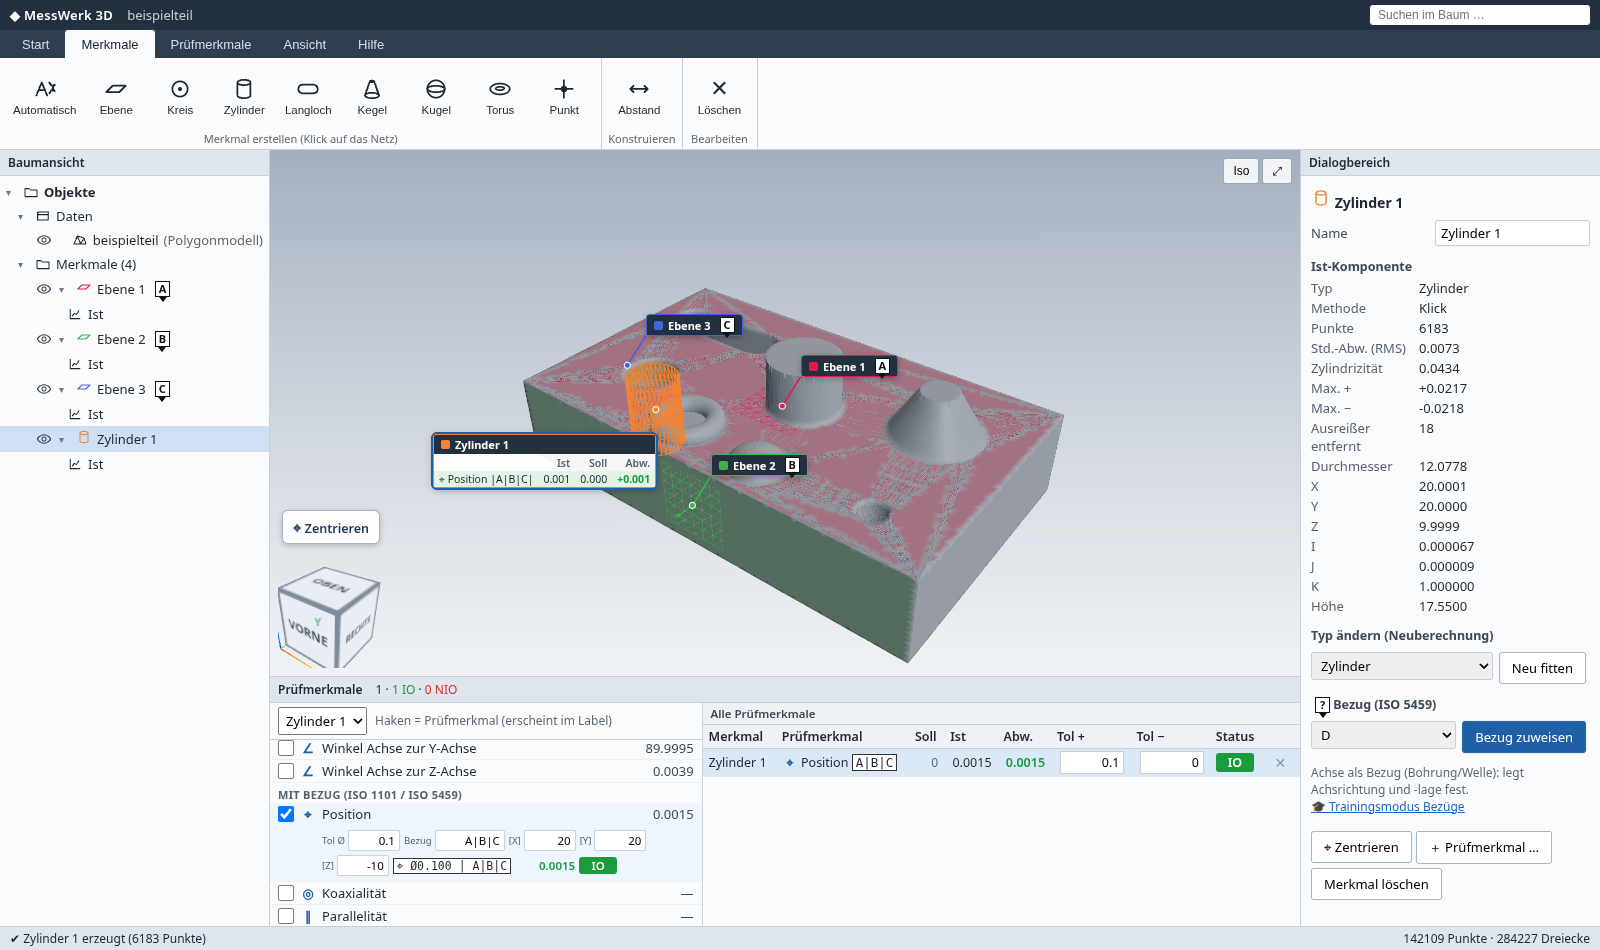
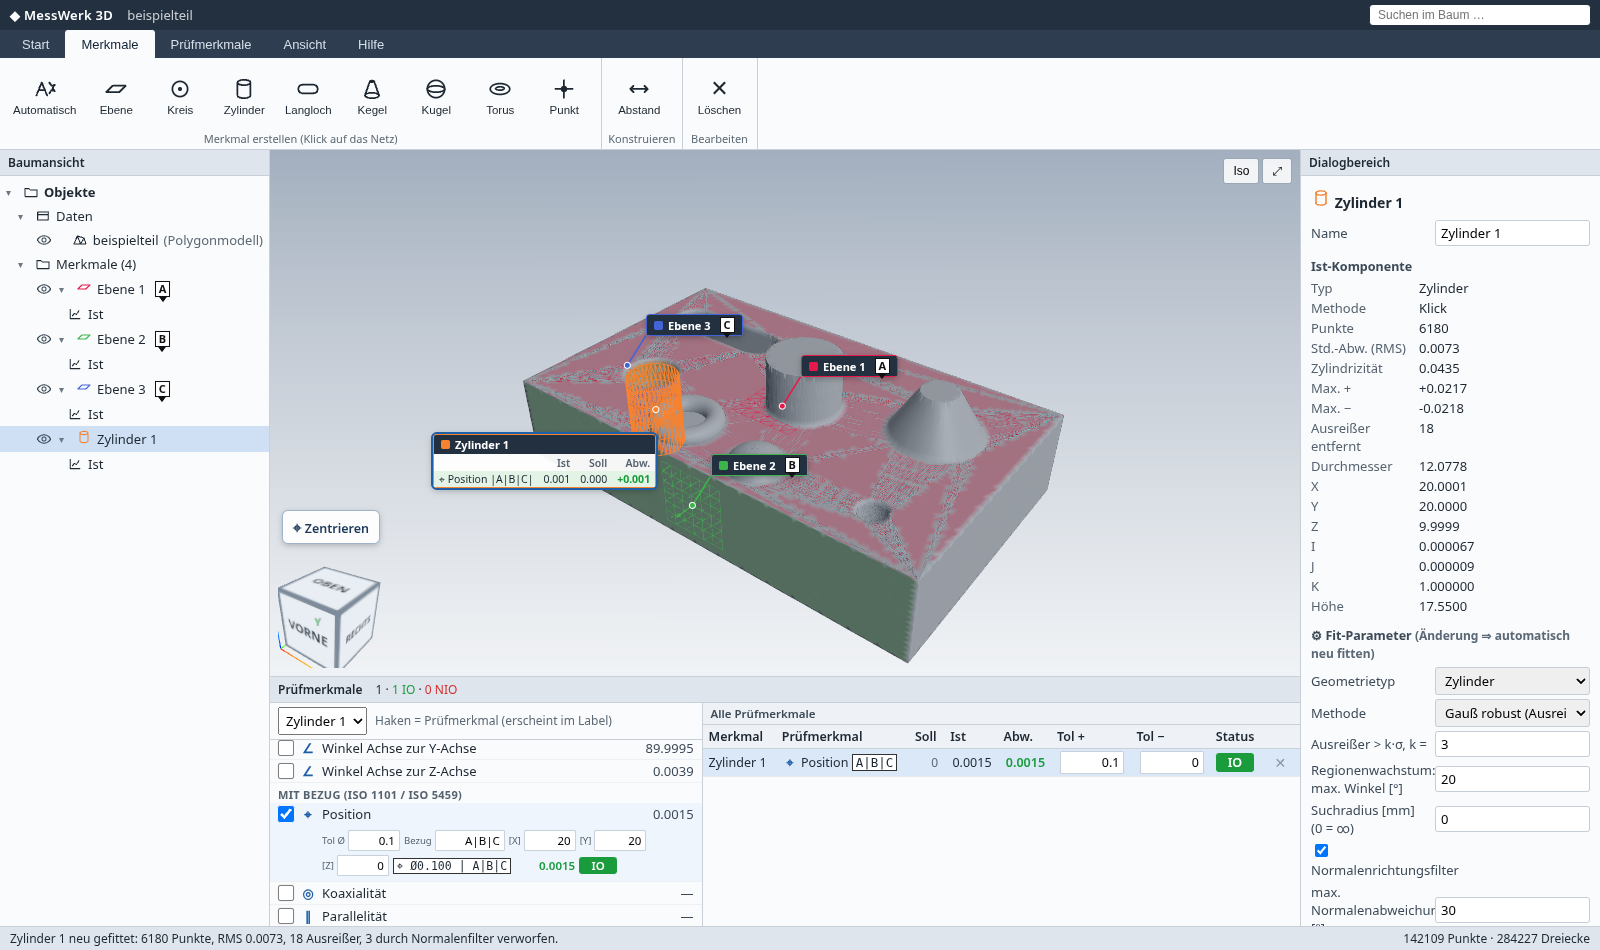
Eigenschaften: Fit-Parameter (Methode, Ausreißer, Regionenwachstum, Normalenfilter °/%, Hilfsebene, Typ) mit Auto-Neu-Fit; Trainingsschritt Normalenfilter; Position-Sollmaß für Achsen ohne Achslage; e2e props-check

Changed region(s): [[0.8125, 0.6411, 1.0, 0.9768], [0.0, 0.9768, 0.3438, 1.0]]

diff --git a/src/main.ts b/src/main.ts
@@ -8,7 +8,7 @@ import {
   defaultTolerance, evaluate, featureCSV, DEG, FORM_NAME, AuxPlane, controlCatalog,
 } from './core/features';
 import { Report, buildReport, reportCSV, reportHTML, reportTablesHTML } from './core/report';
-import { DATUM_COUNT, DATUM_LETTERS, buildDRF, datumKind, isDatumControl, toLocal } from './core/datum';
+import { DATUM_COUNT, DATUM_LETTERS, buildDRF, datumKind, dirLocal, isDatumControl, toLocal } from './core/datum';
 import { datumText } from './core/features';
 import { idbDel, idbGet, idbSet, packIndices, readProject, unpackIndex, writeProject } from './project';
 import { Tour, TourStep } from './training';
@@ -19,7 +19,9 @@ import { ICON } from './icons';
 type FitMode = { kind: 'fit'; type: GeomType | 'auto'; method: 'Klick' | 'Pinsel' };
 type DistMode = { kind: 'dist'; a: number | null; b: number | null; slot: 0 | 1 };
 type Mode = FitMode | DistMode | null;
-interface FeatureView extends Feature { color: number; indices: Uint32Array; candidates?: { type: string; rms: number }[]; auxIndices?: Uint32Array; }
+interface FitParamsUI { k: number; nf: { on: boolean; angleDeg: number; maxPct: number }; maxAngleDeg: number; radius: number; aux: 'auto' | 'none' | number; }
+interface FeatureView extends Feature { color: number; indices: Uint32Array; candidates?: { type: string; rms: number }[]; auxIndices?: Uint32Array;
+  src?: Uint32Array; hit?: Hit; fp?: FitParamsUI; }
 interface PreviewAux { plane: FitResult; indices: Uint32Array; source: string; refId?: number; }
 interface Preview { fit: FitResult; indices: Uint32Array; candidates: { type: string; rms: number }[]; method: 'Klick' | 'Pinsel' | 'Konstruiert'; refs?: number[];
   aux?: PreviewAux; hit?: Hit; }
@@ -52,7 +54,7 @@ const state = {
   nextId: 1, nextCtrl: 1, typeCount: {} as Record<string, number>,
   addFeat: null as number | null,
 };
-(window as any).__app = { state, viewer, engine };
+(window as any).__app = { state, viewer, engine, refitFeature: (...a: any[]) => (refitFeature as any)(...a) };
 
 const featMap = () => new Map<number, Feature>(state.features.map((f) => [f.id, f]));
 // Punkte eines Merkmals (für Richtungs-/Lauftoleranzen mit Bezug) aus dem Netz, max. 6000, zwischengespeichert
@@ -356,6 +358,7 @@ function commitPreview() {
   const f: FeatureView = {
     id: state.nextId++, name: `${t} ${n}`, type: t, measured: p.fit, pointCount: p.indices.length,
     method: p.method, color: PALETTE[(state.nextId - 2) % PALETTE.length], indices: p.indices, candidates: p.candidates, refs: p.refs,
+    src: p.indices, hit: p.hit, fp: defaultFp(),
   };
   if (p.aux) {
     f.aux = { plane: p.aux.plane, pointCount: p.aux.indices.length, source: p.aux.source, refId: p.aux.refId } as AuxPlane;
@@ -369,6 +372,36 @@ function commitPreview() {
   const node = document.querySelector<HTMLElement>(`#tree [data-fid="${f.id}"]`);
   node?.classList.add('flash'); node?.scrollIntoView({ block: 'nearest' });
   toast(`✔ ${f.name} erzeugt (${p.method === 'Konstruiert' ? 'Abstand ' + fmt(p.fit.distance, 3) + ' mm' : p.indices.length + ' Punkte'})`);
+}
+const defaultFp = (): FitParamsUI => ({ k: 3, nf: { on: false, angleDeg: 30, maxPct: 10 }, maxAngleDeg: state.opts.maxAngleDeg, radius: state.opts.radius, aux: state.opts.aux });
+/** Merkmal mit seinen Fit-Parametern neu berechnen (Extraktion + Fit) und alles Abhängige aktualisieren. */
+async function refitFeature(f: FeatureView, type: GeomType = f.type) {
+  if (f.type === 'Abstand') return;
+  const fp = (f.fp ??= defaultFp());
+  try {
+    let idx = f.src ?? f.indices, auxR: any = null;
+    const inPlane = (type === 'Kreis' || type === 'Langloch') && fp.aux !== 'none';
+    if (f.hit && f.method === 'Klick') {
+      if (inPlane) {
+        const ref = typeof fp.aux === 'number' ? state.features.find((g) => g.id === fp.aux) : undefined;
+        auxR = await busy(engine.call<any>({ op: 'aux', tri: f.hit.tri, point: f.hit.point, maxAngleDeg: fp.maxAngleDeg, type, plane: ref?.measured }));
+        auxR.source = ref ? ref.name : 'automatisch (angrenzende Fläche)'; auxR.refId = ref?.id;
+      } else idx = (await busy(engine.call<any>({ op: 'grow', tri: f.hit.tri, point: f.hit.point, maxAngleDeg: fp.maxAngleDeg, radius: fp.radius, type }))).indices;
+    }
+    if (auxR) {
+      f.measured = auxR.fit; f.indices = auxR.indices; f.src = auxR.indices;
+      f.aux = { plane: auxR.aux.plane, pointCount: auxR.aux.indices.length, source: auxR.source, refId: auxR.refId } as AuxPlane; f.auxIndices = auxR.aux.indices;
+    } else {
+      const r = await busy(engine.call<any>({ op: 'fit', indices: idx, type, params: { k: fp.k, nf: fp.nf.on ? fp.nf : null } }));
+      f.measured = r.fit; f.indices = r.indices; f.src = idx; f.aux = undefined; f.auxIndices = undefined;
+    }
+    f.type = f.measured!.type; f.pointCount = f.indices.length; ptsCache.delete(f.id);
+    state.controls = state.controls.filter((c) => !(c.featureIds[0] === f.id && !availableControls(f.type).includes(c.kind)));
+    recomputeDistances();
+    const m = f.measured!;
+    status(`${f.name} neu gefittet: ${f.pointCount} Punkte, RMS ${fmt(m.rms, 4)}${m.outliers ? `, ${m.outliers} Ausreißer` : ''}${m.nfRemoved ? `, ${m.nfRemoved} durch Normalenfilter verworfen` : ''}.`);
+  } catch (e: any) { status('Fit fehlgeschlagen: ' + e.message); toast('Fit fehlgeschlagen: ' + e.message); }
+  renderAll(); scheduleAutosave();
 }
 function discardPreview() { state.preview = null; clearBrush(); status('Vorschau verworfen.'); renderAll(); }
 
@@ -447,7 +480,12 @@ function defaultBasic(kind: ControlKind, f: FeatureView, datumIds: number[]): nu
   }
   if (kind === 'Position' || kind === 'Profil (Bezug)') {
     const F = buildDRF(datumIds.map((i) => fm.get(i)!).filter(Boolean));
-    return toLocal(F, f.measured!.center).map((v) => Math.round(v * 10) / 10);
+    const loc = toLocal(F, f.measured!.center);
+    // Achse: Lage entlang der Achse ist für die Position bedeutungslos → Soll-Koordinate 0 (in der Bezugsebene)
+    if (datumKind(f.type) === 'axis' && f.type !== 'Torus') {
+      const a = dirLocal(F, f.measured!.normal); const ax = [0, 1, 2].reduce((q, k) => (Math.abs(a[k]) > Math.abs(a[q]) ? k : q), 0); loc[ax] = 0;
+    }
+    return loc.map((v) => Math.round(v * 10) / 10 + 0);
   }
   return undefined;
 }
@@ -744,7 +782,7 @@ function renderDialog() {
     <h4>Ist-Komponente</h4>${kv([['Typ', f.type], ['Methode', f.method], ...fitRows(f.measured!, f.pointCount)])}
     ${f.aux ? `<h4>${ICON.aux} Hilfsebene</h4>${kv([['Quelle', f.aux.source], ['Punkte', f.aux.refId ? '—' : String(f.aux.pointCount)], ['RMS', fmt(f.aux.plane.rms)], ['Ebenheit', fmt(f.aux.plane.form)],
       ['Punkt', f.aux.plane.center.map((v) => v.toFixed(3)).join(' ')], ['Normale', f.aux.plane.normal.map((v) => v.toFixed(5)).join(' ')]])}` : ''}
-    ${f.type !== 'Abstand' && !f.aux ? `<h4>Typ ändern (Neuberechnung)</h4><div class="row"><select id="d-retype">${FIT_TYPES.map((t) => `<option ${t === f.type ? 'selected' : ''}>${t}</option>`).join('')}</select><button class="btn" id="d-refit">Neu fitten</button></div>` : ''}
+    ${f.type !== 'Abstand' ? fitParamsHTML(f) : ''}
     ${datumKind(f.type) ? `<h4><span class="dflag sm">${f.datum ?? '?'}</span> Bezug (ISO 5459)</h4>
       <div class="row" id="dt-box"><select id="dt-letter">${DATUM_LETTERS.slice(0, 10).map((l) => { const o = state.features.find((g) => g.datum === l && g.id !== f.id);
         return `<option value="${l}" ${(f.datum ?? nextFreeLetter()) === l ? 'selected' : ''}>${l}${o ? ` (tauschen mit ${o.name})` : ''}</option>`; }).join('')}</select>
@@ -760,15 +798,37 @@ function renderDialog() {
   ($('#d-name') as HTMLInputElement).onchange = (e) => { f.name = (e.target as HTMLInputElement).value; renderAll(); };
   ($('#d-del') as HTMLButtonElement).onclick = () => { state.selControl = null; deleteSelected(); };
   ($('#d-addctrl') as HTMLButtonElement).onclick = () => { state.addFeat = f.id; state.ctab = 'katalog'; renderTable(); togglePanel('table', true); };
-  d.querySelector('#d-refit')?.addEventListener('click', async () => {
-    const t = ($('#d-retype') as HTMLSelectElement).value as GeomType;
-    try {
-      const r = await busy(engine.call<any>({ op: 'fit', indices: f.indices, type: t }));
-      f.type = r.fit.type; f.measured = r.fit; ptsCache.delete(f.id);
-      state.controls = state.controls.filter((c) => !(c.featureIds[0] === f.id && !availableControls(f.type).includes(c.kind)));
-      recomputeDistances(); renderAll();
-    } catch (e: any) { status('Fit fehlgeschlagen: ' + e.message); }
-  });
+  bindFitParams(d, f);
+}
+
+function fitParamsHTML(f: FeatureView) {
+  const fp = (f.fp ??= defaultFp()); const grow = !!f.hit && f.method === 'Klick';
+  const planes = state.features.filter((g) => g.type === 'Ebene' && g.id !== f.id);
+  const m = f.measured!;
+  return `<h4>⚙ Fit-Parameter <span class="note">(Änderung ⇒ automatisch neu fitten)</span></h4><div id="fp-box">
+    <div class="row"><label>Geometrietyp</label><select id="d-retype">${FIT_TYPES.map((t) => `<option ${t === f.type ? 'selected' : ''}>${t}</option>`).join('')}</select></div>
+    <div class="row"><label>Methode</label><select id="fp-method"><option value="lsq" ${fp.k ? '' : 'selected'}>Gauß (kleinste Quadrate)</option><option value="rob" ${fp.k ? 'selected' : ''}>Gauß robust (Ausreißer entfernen)</option></select></div>
+    ${fp.k ? `<div class="row"><label>Ausreißer &gt; k·σ, k =</label><input id="fp-k" value="${fp.k}" inputmode="decimal"></div>` : ''}
+    ${grow ? `<div class="row"><label>Regionenwachstum: max. Winkel [°]</label><input id="fp-ang" value="${fp.maxAngleDeg}" inputmode="decimal"></div>
+      <div class="row"><label>Suchradius [mm] (0 = ∞)</label><input id="fp-rad" value="${fp.radius}" inputmode="decimal"></div>` : `<p class="note">Punkte aus ${f.method === 'Pinsel' ? 'Pinselauswahl' : 'Projektdatei'} – kein Regionenwachstum.</p>`}
+    <div class="row chk"><label><input type="checkbox" id="fp-nf" ${fp.nf.on ? 'checked' : ''}> Normalenrichtungsfilter</label></div>
+    ${fp.nf.on ? `<div class="row"><label>max. Normalenabweichung [°]</label><input id="fp-nfa" value="${fp.nf.angleDeg}" inputmode="decimal"></div>
+      <div class="row"><label>höchstens verwerfen [%]</label><input id="fp-nfp" value="${fp.nf.maxPct}" inputmode="decimal"></div>` : ''}
+    <p class="note">Normalenfilter: Punkte, deren gemessene Flächennormale mehr als den Winkel von der Normalen des gefitteten Elements abweicht (Kanten, Fasen, Nachbarflächen), werden verworfen – die schlimmsten zuerst, höchstens der Prozentsatz.${m.nfRemoved ? ` <b>Aktuell ${m.nfRemoved} Punkte verworfen.</b>` : ''}</p>
+    ${(f.type === 'Kreis' || f.type === 'Langloch') && grow ? `<div class="row"><label>Hilfsebene</label><select id="fp-aux"><option value="auto" ${fp.aux === 'auto' ? 'selected' : ''}>Automatisch</option>
+      ${planes.map((g) => `<option value="${g.id}" ${fp.aux === g.id ? 'selected' : ''}>${g.name}</option>`).join('')}<option value="none" ${fp.aux === 'none' ? 'selected' : ''}>Keine (3D-Fit)</option></select></div>` : ''}
+    </div>`;
+}
+function bindFitParams(d: HTMLElement, f: FeatureView) {
+  const fp = f.fp!; const q = <T extends HTMLElement>(s: string) => d.querySelector<T>(s);
+  const num = (id: string, set: (x: number) => void, min = 0) => { const el = q<HTMLInputElement>(id); if (el) el.onchange = () => { const x = Number(el.value.replace(',', '.')); if (isFinite(x) && x >= min) { set(x); refitFeature(f); } else el.value = ''; }; };
+  q<HTMLSelectElement>('#d-retype')?.addEventListener('change', (e) => refitFeature(f, (e.target as HTMLSelectElement).value as GeomType));
+  q<HTMLSelectElement>('#fp-method')?.addEventListener('change', (e) => { fp.k = (e.target as HTMLSelectElement).value === 'rob' ? 3 : 0; refitFeature(f); });
+  num('#fp-k', (x) => (fp.k = Math.max(1, x)));
+  num('#fp-ang', (x) => (fp.maxAngleDeg = x)); num('#fp-rad', (x) => (fp.radius = x));
+  q<HTMLInputElement>('#fp-nf')?.addEventListener('change', (e) => { fp.nf.on = (e.target as HTMLInputElement).checked; refitFeature(f); });
+  num('#fp-nfa', (x) => (fp.nf.angleDeg = Math.min(89, x))); num('#fp-nfp', (x) => (fp.nf.maxPct = Math.min(90, x)));
+  q<HTMLSelectElement>('#fp-aux')?.addEventListener('change', (e) => { const v = (e.target as HTMLSelectElement).value; fp.aux = v === 'auto' || v === 'none' ? v : +v; refitFeature(f); });
 }
 
 const CTRL_SYMBOL = (c: Control, f?: Feature) => {
@@ -970,7 +1030,7 @@ function attachContext(el: HTMLElement, fid: number | null) {
 // ------------------------------------------------------------------ Projekt speichern / öffnen / Autosave
 let loadCount = 0, meshKey = '', restoring = false;
 function projectJSON() {
-  const feats = state.features.map(({ indices, auxIndices, candidates, ...rest }) => { void indices; void auxIndices; void candidates; return rest; });
+  const feats = state.features.map(({ indices, auxIndices, candidates, src, ...rest }) => { void indices; void auxIndices; void candidates; void src; return rest; });
   return {
     savedAt: new Date().toISOString(), app: 'MessWerk 3D',
     mesh: { name: state.data!.name, vertexCount: state.data!.vertexCount, triCount: state.data!.triCount },
@@ -983,7 +1043,7 @@ function projectJSON() {
 }
 function featureIndexBlob() {
   const o: Record<string, Uint32Array | undefined> = {};
-  for (const f of state.features) { o['f' + f.id] = f.indices; o['a' + f.id] = f.auxIndices; }
+  for (const f of state.features) { o['f' + f.id] = f.indices; o['a' + f.id] = f.auxIndices; o['s' + f.id] = f.src; }
   return packIndices(o);
 }
 function meshArrays() {
@@ -1010,7 +1070,7 @@ async function applyProject(json: any, mesh: { positions: Float32Array; indices:
     viewer.setModel(r.positions, r.indices, r.normals);
     const st = json.state;
     state.data = { name: r.name, vertexCount: r.vertexCount, triCount: r.triCount, diag: r.bounds.diag };
-    state.features = st.features.map((f: any) => ({ ...f, indices: unpackIndex(idx, 'f' + f.id) ?? new Uint32Array(0), auxIndices: unpackIndex(idx, 'a' + f.id) }));
+    state.features = st.features.map((f: any) => ({ ...f, indices: unpackIndex(idx, 'f' + f.id) ?? new Uint32Array(0), auxIndices: unpackIndex(idx, 'a' + f.id), src: unpackIndex(idx, 's' + f.id) }));
     state.controls = st.controls; state.typeCount = st.typeCount; state.nextId = st.nextId; state.nextCtrl = st.nextCtrl; state.nextReport = st.nextReport;
     state.reports = st.reports ?? []; state.hidden = new Set(st.hidden ?? []); state.modelVisible = st.modelVisible ?? true;
     state.labelOffsets = new Map(st.labelOffsets ?? []); state.showLabels = st.showLabels ?? true; state.showPrims = st.showPrims ?? true; state.colorPts = st.colorPts ?? true;
@@ -1195,6 +1255,11 @@ function startTraining() {
     { auto: () => ensurePreview('Zylinder', TRAIN_FEATS.H[1], TRAIN_FEATS.H[2], isHole), title: 'Bohrung Ø12 antippen', text: 'Tippe auf die <b>Wand der Bohrung</b> (gelber Ring).', world: () => worldToScreen([20, 26.04, 15]), enter: () => viewer.view('iso'),
       check: () => !!findF(isHole) || pv((m) => m.type === 'Zylinder' && Math.abs(m.diameter! - 12.08) < 0.3)() },
     { auto: () => ensureFeature('Zylinder', TRAIN_FEATS.H[1], TRAIN_FEATS.H[2], isHole), title: 'Erzeugen', text: 'Tippe auf <b>✔ Erzeugen</b>.', target: () => document.querySelector('#pc-create'), check: () => !!findF(isHole) },
+    { auto: async () => { await ensureFeature('Zylinder', TRAIN_FEATS.H[1], TRAIN_FEATS.H[2], isHole); const f = findF(isHole)!; f.fp ??= defaultFp(); if (!f.fp.nf.on) { f.fp.nf.on = true; await refitFeature(f); } },
+      title: 'Normalenrichtungsfilter', text: 'Beim Antasten liegen oft Punkte von <b>Kanten und Fasen</b> in der Auswahl. Ihre Flächennormale passt nicht zur Bohrungswand. Der <b>Normalenrichtungsfilter</b> verwirft Punkte, deren Normale mehr als den eingestellten <b>Winkel</b> abweicht – die schlimmsten zuerst, aber höchstens den eingestellten <b>Prozentsatz</b>.<br>Setze im Dialog unter <b>⚙ Fit-Parameter</b> den Haken bei <b>Normalenrichtungsfilter</b>. Das Merkmal wird sofort neu gefittet; Winkel und % kannst du danach ändern.',
+      target: () => document.querySelector('#fp-nf')?.closest('.row') ?? null,
+      enter: () => { const f = findF(isHole); if (f) { state.sel = [f.id]; state.mode = null; renderAll(); } if (isPhone()) togglePanel('dialog', true); },
+      check: () => !!findF(isHole)?.fp?.nf.on },
     { auto: ensurePosition, title: 'Positionstoleranz ⌖ A|B|C', text: 'Im Fenster <b>Prüfmerkmale</b> (Katalog) unter „Mit Bezug“ den Haken bei <b>⌖ Position</b> setzen. Die Bezüge A|B|C werden automatisch eingetragen.',
       target: () => document.querySelector('#catalog .cat-item[data-kind="Position"]'),
       enter: () => { const f = findF(isHole); if (f) { state.sel = [f.id]; state.addFeat = f.id; state.ctab = 'katalog'; state.mode = null; renderAll(); } if (isPhone()) togglePanel('table', true); },

diff --git a/src/core/fit.ts b/src/core/fit.ts
@@ -23,6 +23,7 @@ export interface FitResult {
   maxNeg: number;        // größte negative Abweichung
   n: number;             // Anzahl verwendeter Punkte
   outliers?: number;     // vom robusten Fit verworfene Punkte
+  nfRemoved?: number;    // vom Normalenrichtungsfilter verworfene Punkte
   // nur Abstand
   distance?: number;
   delta?: Vec3;          // p2 - p1
@@ -337,7 +338,7 @@ function robust(fit: (p: Vec3[], n: Vec3[]) => FitResult, p: Vec3[], n: Vec3[], 
   return r;
 }
 
-export function fitType(type: GeomType, p: Vec3[], n: Vec3[], robustFit = true): FitResult {
+export function fitType(type: GeomType, p: Vec3[], n: Vec3[], robustFit: boolean | number = true): FitResult {
   const run = (pp: Vec3[], nn: Vec3[]): FitResult => {
     switch (type) {
       case 'Ebene': return fitPlane(pp, nn.length ? centroid(nn) : undefined);
@@ -357,7 +358,45 @@ export function fitType(type: GeomType, p: Vec3[], n: Vec3[], robustFit = true):
       default: throw new Error('Typ nicht fitbar: ' + type);
     }
   };
-  return robustFit && type !== 'Punkt' ? robust(run, p, n) : run(p, n);
+  const k = robustFit === true ? 3 : robustFit === false ? 0 : robustFit;
+  return k > 0 && type !== 'Punkt' ? robust(run, p, n, k) : run(p, n);
+}
+
+/** Flächennormale des gefitteten Elements am Punkt p (Vorzeichen egal). */
+export function modelNormal(f: FitResult, p: Vec3): Vec3 {
+  const a = f.normal;
+  switch (f.type) {
+    case 'Kugel': return unit(sub(p, f.center));
+    case 'Zylinder': case 'Kreis': case 'Kegel': {
+      const d = sub(p, f.center); const r = sub(d, scale(a, dot(d, a)));
+      if (f.type !== 'Kegel' || f.halfAngle == null) return unit(r);
+      // Kegelmantel: radiale Richtung um den Halbwinkel zur Achse gekippt
+      const ru = unit(r), c = Math.cos(f.halfAngle), s = Math.sin(f.halfAngle);
+      const apexSide = f.apex ? Math.sign(dot(sub(f.center, f.apex), a)) || 1 : 1;
+      return unit(sub(scale(ru, c), scale(a, s * apexSide)));
+    }
+    case 'Torus': {
+      const d = sub(p, f.center); const r = unit(sub(d, scale(a, dot(d, a))));
+      return unit(sub(p, add(f.center, scale(r, f.radius ?? 0))));
+    }
+    default: return a;
+  }
+}
+
+export interface NormalFilter { angleDeg: number; maxPct: number; }
+/** Normalenrichtungsfilter: Punkte, deren Messnormale > angleDeg von der Elementnormalen abweicht, werden verworfen
+ *  (die schlimmsten zuerst, höchstens maxPct % der Punkte). Liefert die behaltenen Indizes (relativ zu p). */
+export function normalFilter(f: FitResult, p: Vec3[], n: Vec3[], o: NormalFilter): number[] {
+  const thr = Math.cos((o.angleDeg * Math.PI) / 180);
+  const bad: [number, number][] = [];
+  for (let i = 0; i < p.length; i++) {
+    const c = Math.abs(dot(unit(n[i]), modelNormal(f, p[i])));
+    if (c < thr) bad.push([c, i]);
+  }
+  bad.sort((x, y) => x[0] - y[0]);
+  const drop = new Set(bad.slice(0, Math.floor((p.length * o.maxPct) / 100)).map((b) => b[1]));
+  const keep: number[] = []; for (let i = 0; i < p.length; i++) if (!drop.has(i)) keep.push(i);
+  return keep;
 }
 
 /** Automatische Erkennung: alle plausiblen Typen fitten, einfachsten Typ wählen,

diff --git a/src/worker.ts b/src/worker.ts
@@ -2,7 +2,7 @@
 import { parseByName } from './core/io';
 import { MeshData, bounds } from './core/mesh';
 import { MeshTopology, brushSelect, gather } from './core/region';
-import { autoFit, fitType, FitResult, GeomType } from './core/fit';
+import { autoFit, fitType, FitResult, GeomType, normalFilter, NormalFilter } from './core/fit';
 import type { Vec3 } from './core/linalg';
 import { autoExtract, extractWithAuxPlane } from './core/aux';
 import { computeNormals } from './core/mesh';
@@ -15,9 +15,25 @@ export type Req =
   | { op: 'loadRaw'; name: string; positions: Float32Array; indices: Uint32Array }
   | { op: 'grow'; tri: number; point: Vec3; maxAngleDeg: number; radius: number; type: GeomType | 'auto' }
   | { op: 'brush'; center: Vec3; radius: number; facing: Vec3 }
-  | { op: 'fit'; indices: Uint32Array; type: GeomType | 'auto' }
+  | { op: 'fit'; indices: Uint32Array; type: GeomType | 'auto'; params?: FitParams }
   | { op: 'aux'; tri: number; point: Vec3; maxAngleDeg: number; type: 'Kreis' | 'Langloch'; plane?: FitResult };
 
+export interface FitParams { k: number; nf?: NormalFilter | null; }
+function fitWithParams(idx: Uint32Array, type: GeomType, prm: FitParams) {
+  let { p, n } = gather(mesh!, idx);
+  if (p.length < 3) throw new Error('Zu wenige Punkte ausgewählt');
+  let fit = fitType(type, p, n, prm.k), use = idx, removed = 0;
+  if (prm.nf && n.length === p.length) {
+    const keep = normalFilter(fit, p, n, prm.nf);
+    removed = p.length - keep.length;
+    if (removed && keep.length >= 6) {
+      use = Uint32Array.from(keep, (i) => idx[i]); p = keep.map((i) => p[i]); n = keep.map((i) => n[i]);
+      fit = fitType(type, p, n, prm.k);
+    } else removed = 0;
+  }
+  delete fit.residuals; fit.n = use.length; fit.nfRemoved = removed;
+  return { indices: use, fit, candidates: [] };
+}
 function doFit(idx: Uint32Array, type: GeomType | 'auto'): { fit: FitResult; candidates: { type: string; rms: number }[] } {
   const { p, n } = gather(mesh!, idx);
   if (p.length < 3) throw new Error('Zu wenige Punkte ausgewählt');
@@ -62,7 +78,7 @@ self.onmessage = (e: MessageEvent<{ id: number; req: Req }>) => {
     } else if (req.op === 'brush') {
       result = { indices: brushSelect(mesh!, req.center, req.radius, req.facing) };
     } else if (req.op === 'fit') {
-      result = { indices: req.indices, ...doFit(req.indices, req.type) };
+      result = req.params && req.type !== 'auto' ? fitWithParams(req.indices, req.type, req.params) : { indices: req.indices, ...doFit(req.indices, req.type) };
     }
     result.ms = performance.now() - t0;
     (self as any).postMessage({ id, result }, transfer);

diff --git a/src/style.css b/src/style.css
@@ -245,3 +245,4 @@ body.thumb #btn-center, body.thumb #navcube, body.thumb #viewcube, body.thumb #l
 .tc-btns { flex-wrap:wrap; gap:6px; } .tc-list { margin:8px 0 0; padding:0; list-style:none; max-height:40vh; overflow:auto; border-top:1px solid #dde2e8; }
 .tc-list button { display:block; width:100%; text-align:left; border:none; background:none; padding:6px 4px; font:inherit; border-radius:4px; cursor:pointer; min-height:32px; }
 .tc-list button.cur { background:#e6eef8; font-weight:700; } .tc-list button.done::after { content:' ✔'; color:var(--io); }
+.row.chk label{width:auto;flex:1;display:flex;gap:6px;align-items:center;max-width:none}
